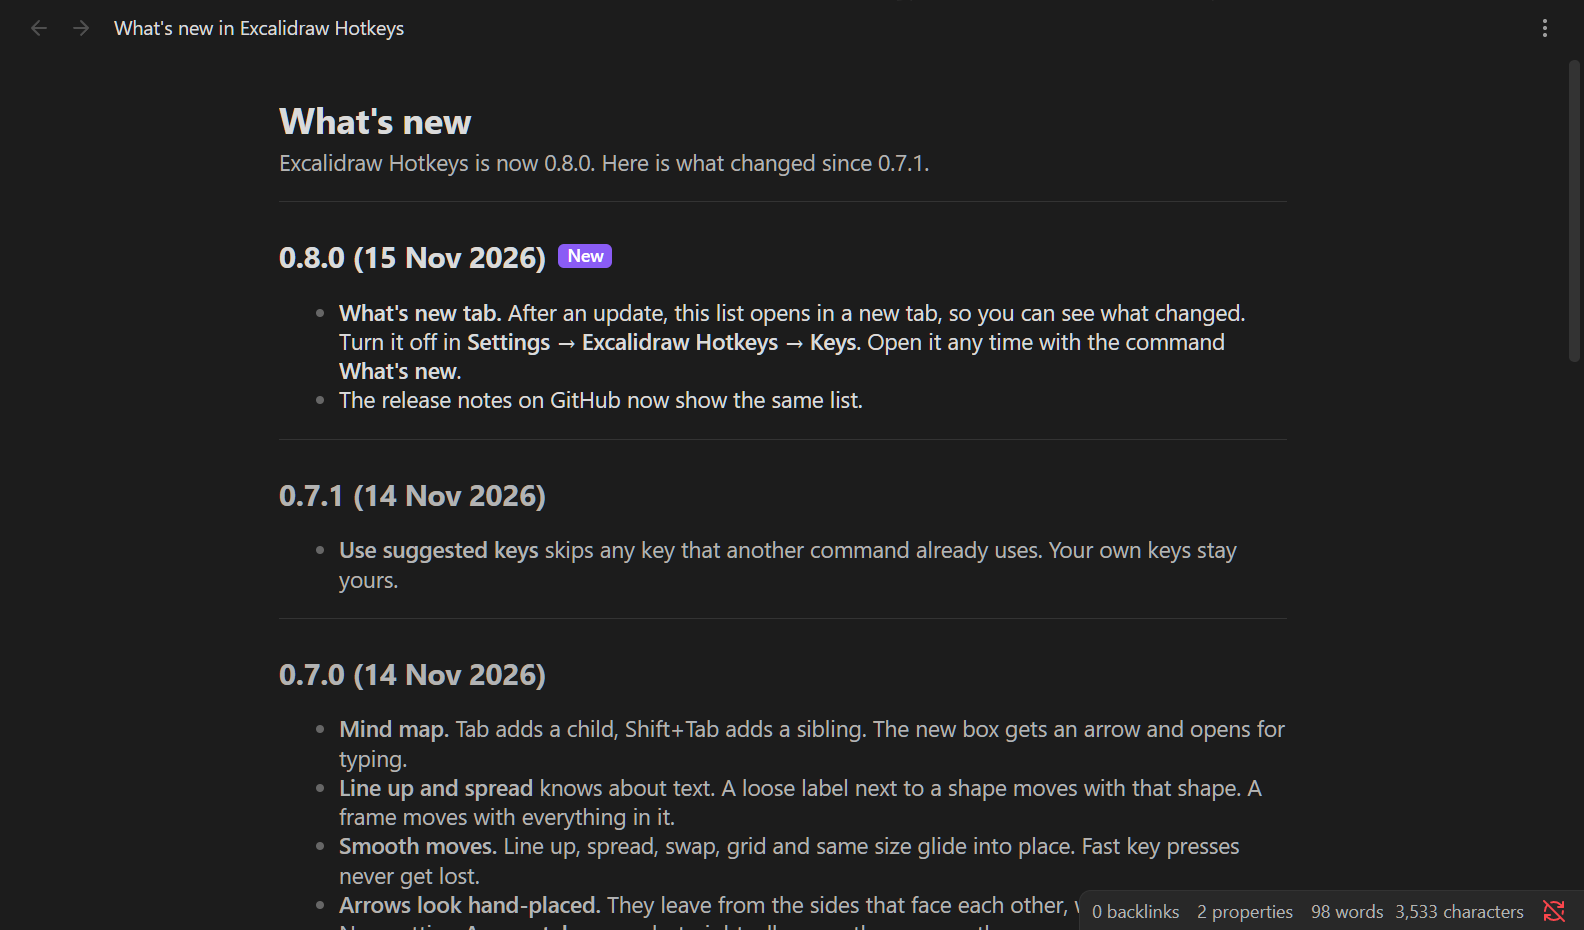
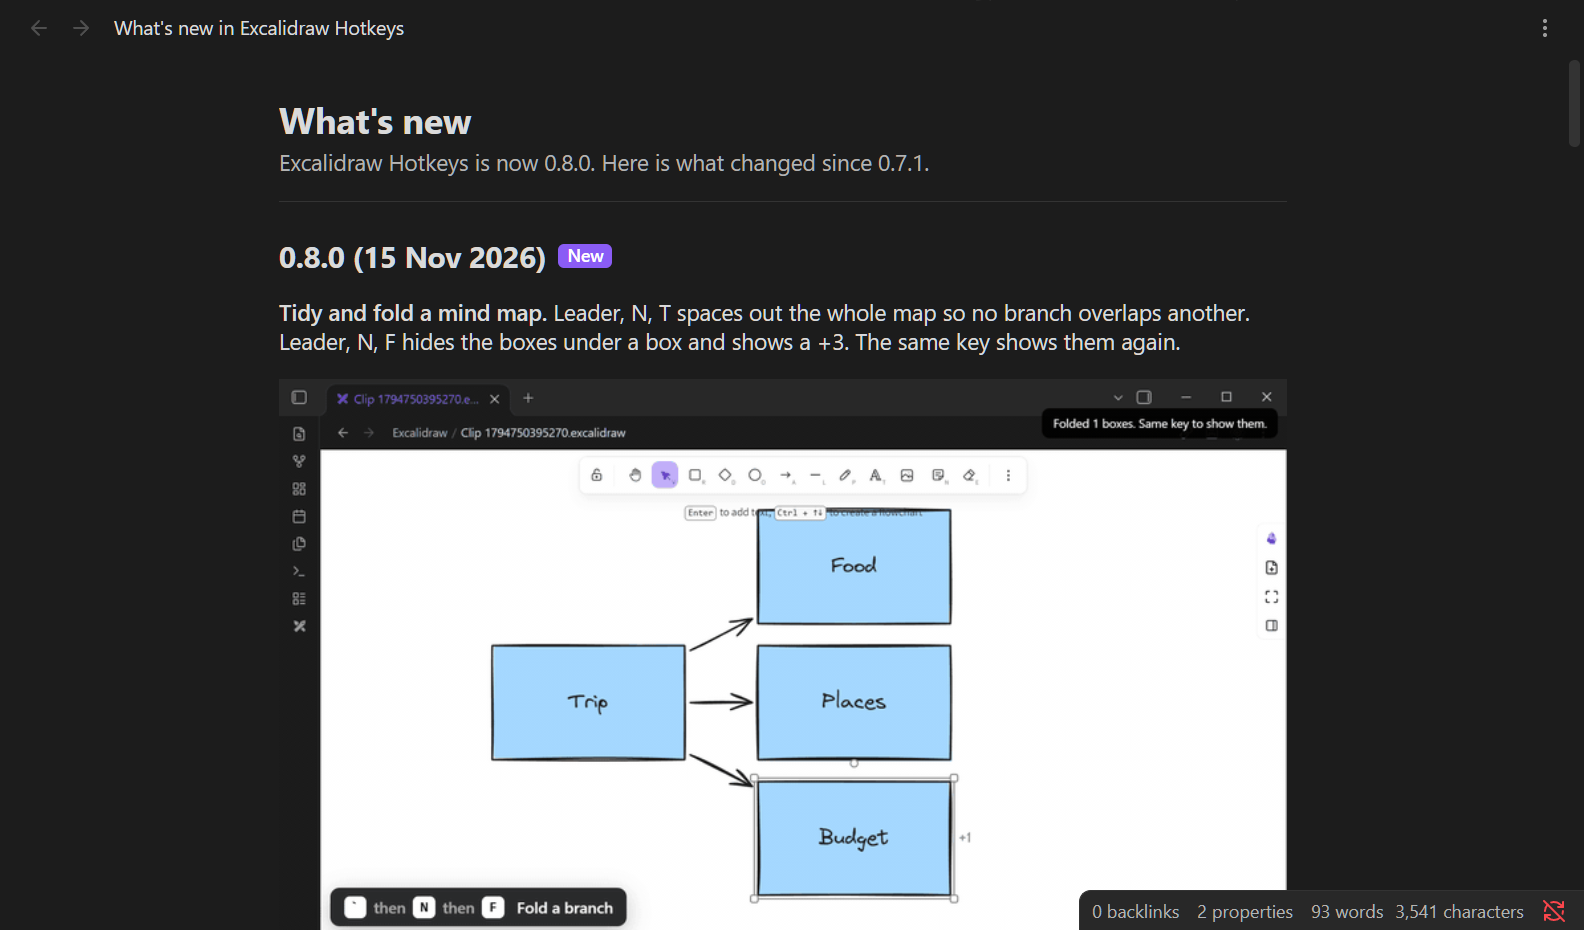
0.8.1: "Folded 1 box", and the What's new picture with its GIFs

diff --git a/src/main.ts b/src/main.ts
@@ -2769,7 +2769,8 @@ export default class ExcalidrawHotkeys extends Plugin {
 			for (const b of badges) ea.getElement(b.id).isDeleted = true;
 			for (const e of fold.els) ea.elementsDict[e.id] = { ...e, x: e.x + dx, y: e.y + dy, isDeleted: false };
 			await commitEA(ea, [node.id]);
-			showInfo(`Showing ${fold.els.filter((e) => SHAPES.includes(e.type)).length} hidden boxes`);
+			const shown = fold.els.filter((e) => SHAPES.includes(e.type)).length;
+			showInfo(`Showing ${shown} hidden ${shown === 1 ? "box" : "boxes"}`);
 			return;
 		}
 		// Fold: everything below this box, with the arrows between, and their labels.
@@ -2802,7 +2803,7 @@ export default class ExcalidrawHotkeys extends Plugin {
 		const badge = ea.addText(node.x + node.width + 8, node.y + node.height / 2 - 10, `+${boxes.size}`);
 		(ea.getElement(badge) as unknown as { customData?: Record<string, unknown> }).customData = { ekhFoldBadge: node.id };
 		await commitEA(ea, [node.id]);
-		showInfo(`Folded ${boxes.size} boxes. Same key to show them.`);
+		showInfo(`Folded ${boxes.size} ${boxes.size === 1 ? "box" : "boxes"}. Same key to show ${boxes.size === 1 ? "it" : "them"}.`);
 	}
 
 	// -----------------------------------------------------------------------

diff --git a/CHANGELOG.md b/CHANGELOG.md
@@ -1,5 +1,11 @@
 # What's new
 
+## 0.8.1 (15 Nov 2026)
+
+- Folding one box now says "Folded 1 box", not "1 boxes".
+
+![Folded 1 box](https://raw.githubusercontent.com/Virus7976/excalidraw-hotkeys/0.8.1/docs/media/0.8.1-fold.png)
+
 ## 0.8.0 (15 Nov 2026)
 
 **Tidy and fold a mind map.** Leader, N, T spaces out the whole map so no branch overlaps another. Leader, N, F hides the boxes under a box and shows a +3. The same key shows them again.
